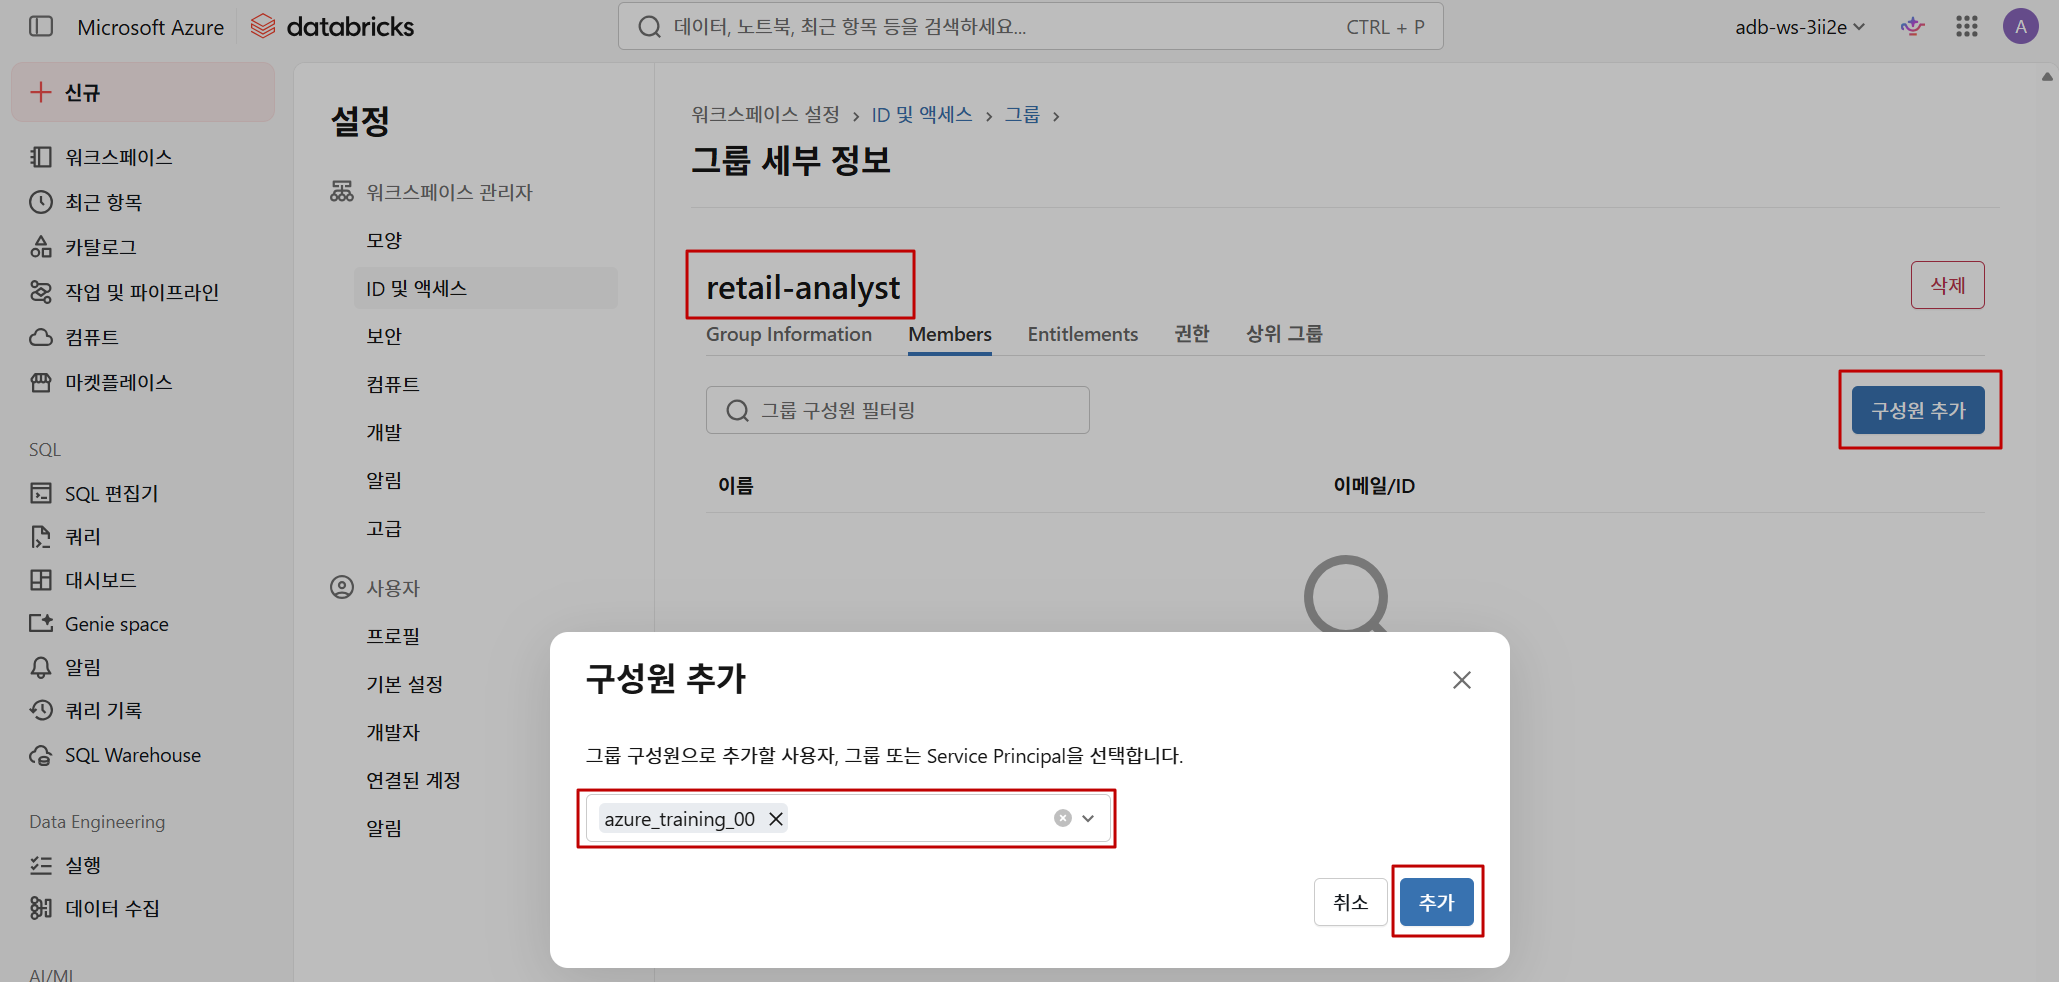
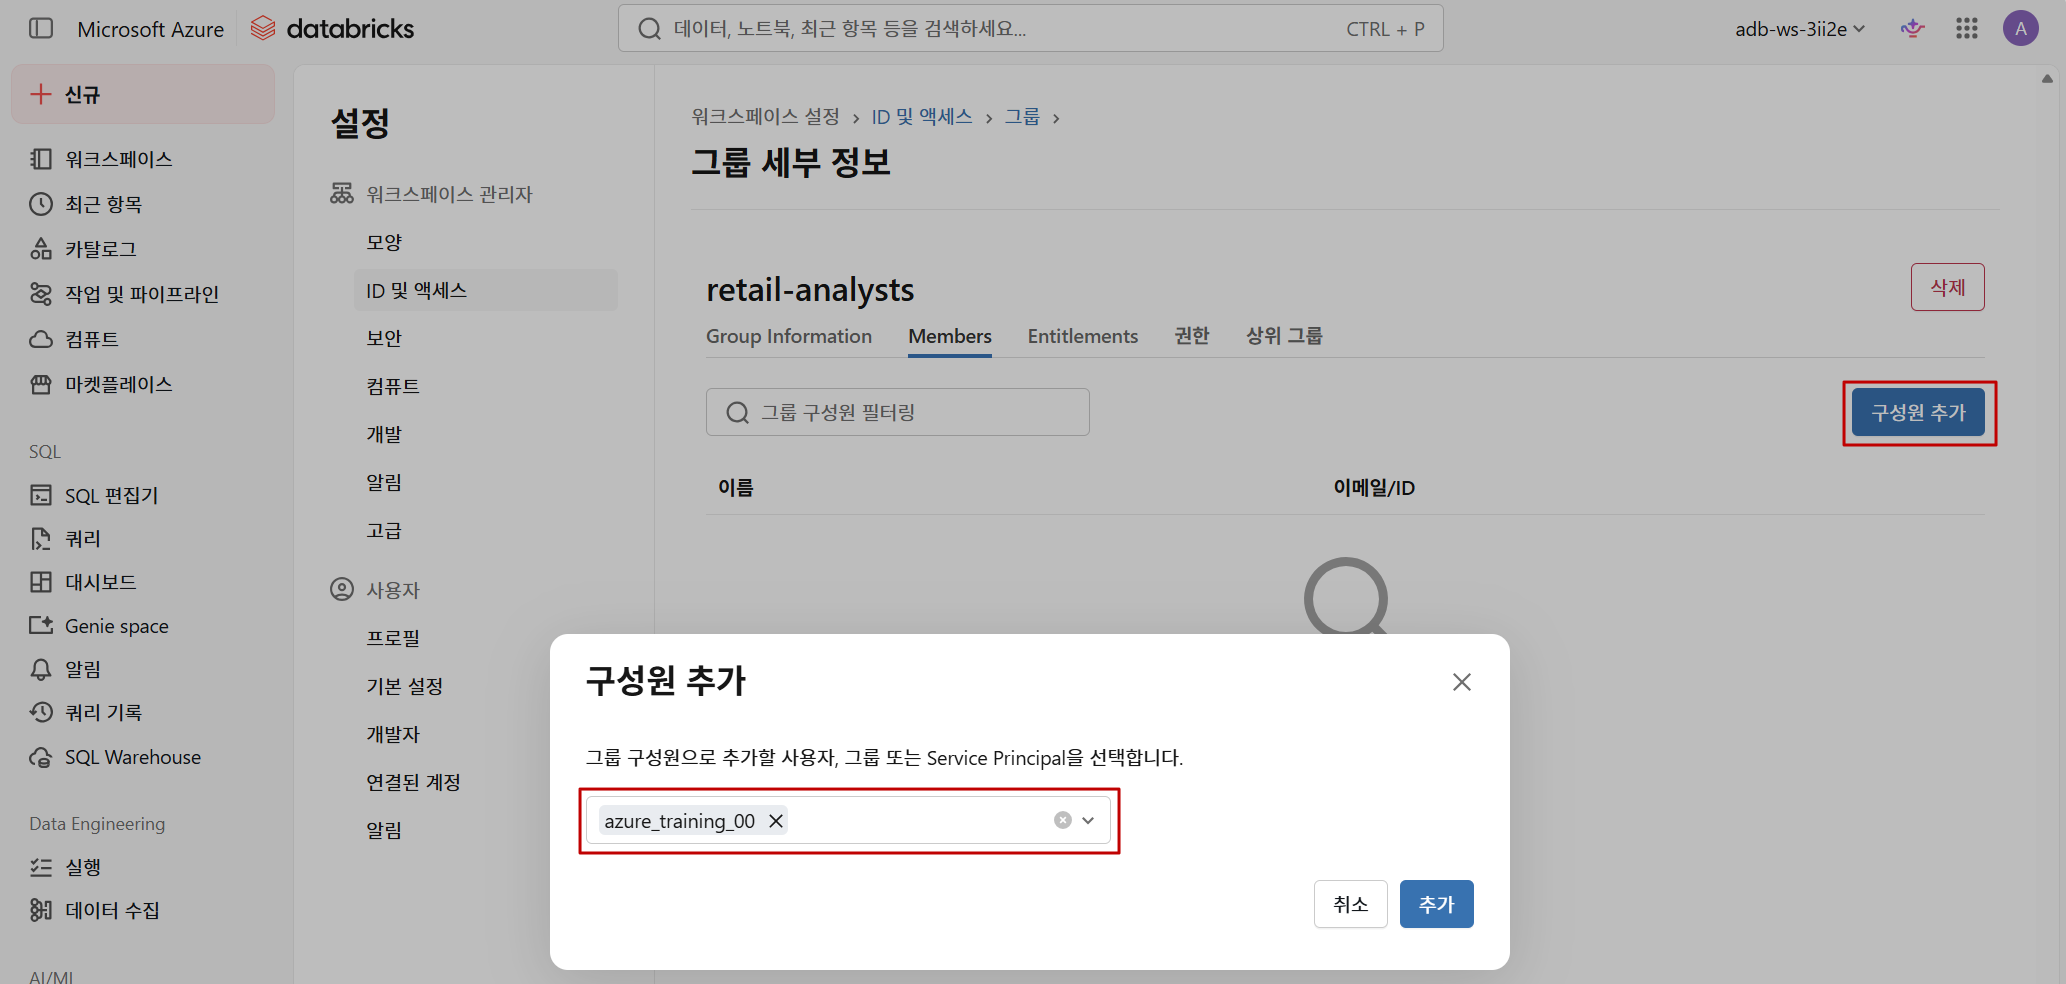
update

diff --git a/Labs/04-secure-unity-catalog-objects-KO.md b/Labs/04-secure-unity-catalog-objects-KO.md
@@ -88,6 +88,7 @@ https://github.com/asddai/AzureDatabricks/blob/main/Labs/Notebooks/04-secure-uni
 2. **ID 및 액세스** → **그룹** → **관리** 선택 → **그룹 추가**로 이동합니다.
 ![alt text](./Media/Lab04creatingagroup01.png)
 3. 그룹 이름을 `retail-analysts`로 지정하고 **저장**을 선택합니다.
+![alt text](./Media/Lab04creatingagroup06.png)
 4. 그룹이 생성되면 **자신의 실습 계정**을 구성원으로 추가합니다.
 ![alt text](./Media/Lab04creatingagroup05.png)
 > ℹ 이 그룹은 NorthMart Retail의 지역 분석가 팀을 나타냅니다. 연습 1에서 이 그룹에 실습 스키마에 대한 액세스 권한을 부여합니다.
